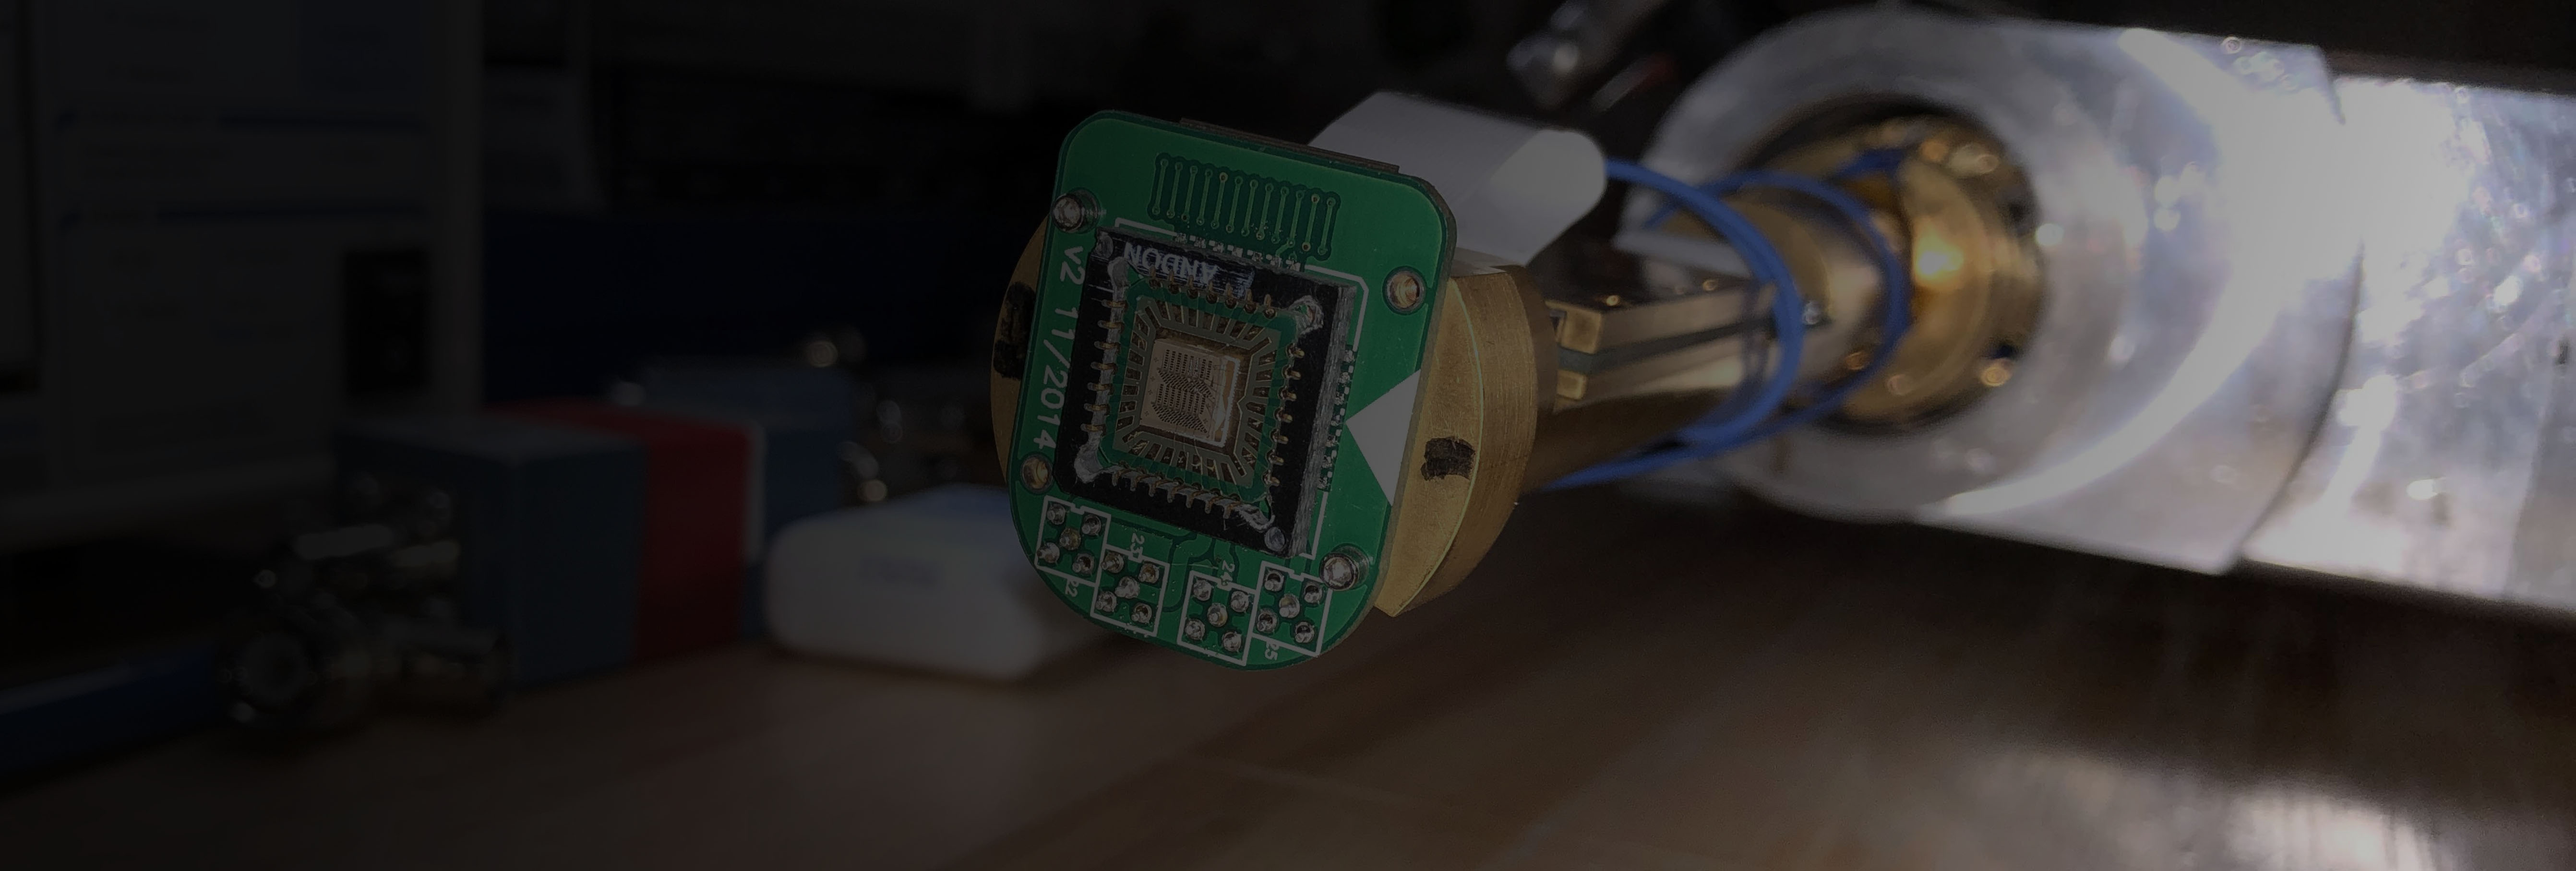
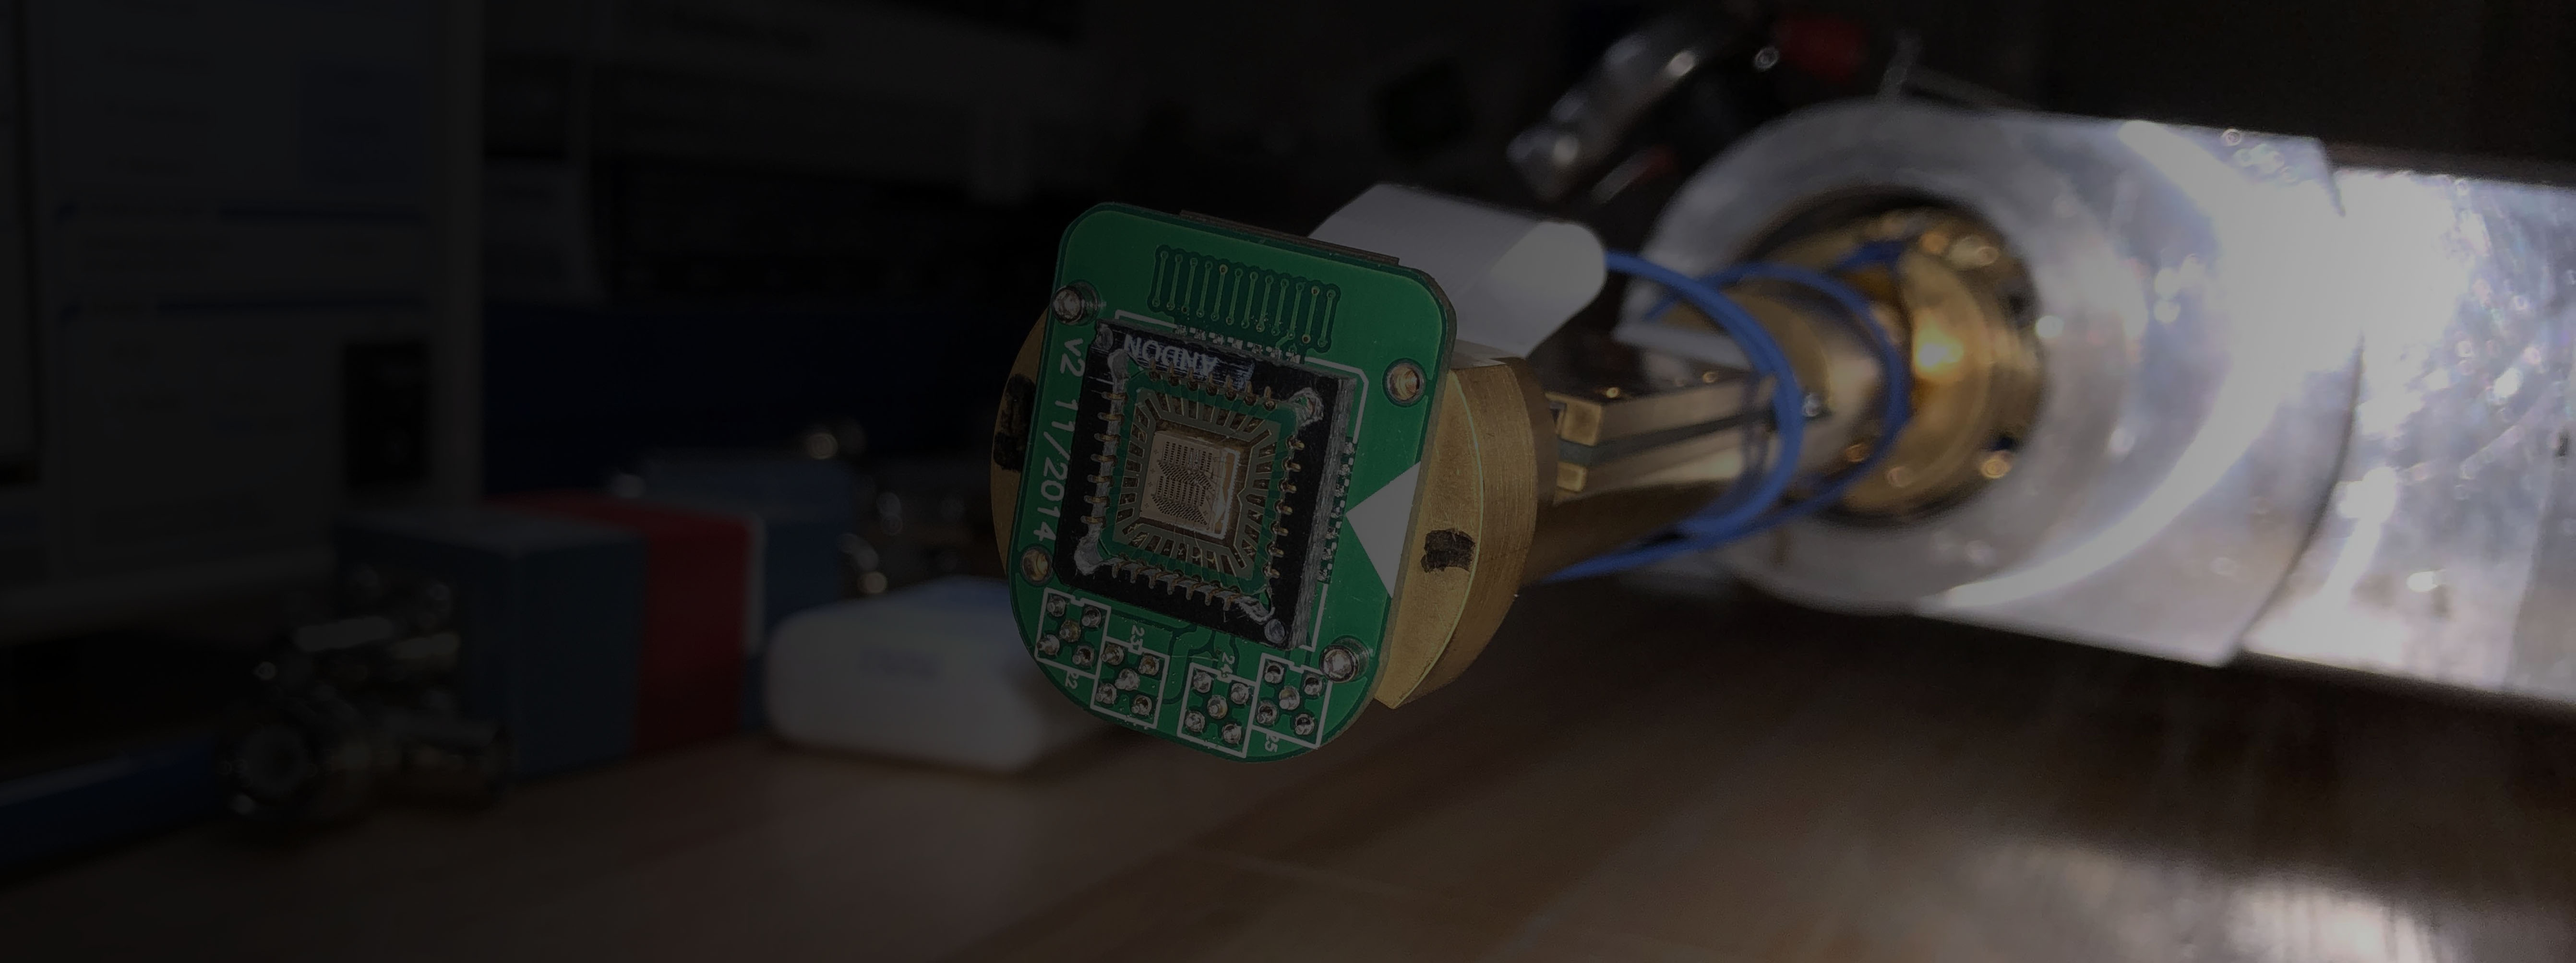
revert to non parallax

diff --git a/index.html b/index.html
@@ -5,6 +5,7 @@
 <title>Yun-Yi Pai</title>
 <link rel="shortcut icon" type="image/x-icon" href="images/favicon.ico" />
 <link href="main.css" rel="stylesheet" type="text/css">
+
 </head>
 
 	
@@ -16,105 +17,104 @@
   <a href="lab.html">Lab Experience</a>
 </div>
 
-<div class = "container_parallax">
 	
-    <div class = "parallax"></div>
-	<h1 id="title-text">Yun-Yi Pai</h1>
-    <h2 id="title-text-alt">Mesoscopic Physics, Superconductivity, Heterostructures, Complex Oxides </h2>
-
+<div>
+   <img src="images/Top.jpg" alt="" width="" height="" id="banner"/>
+   <h1 id="title-text">Yun-Yi Pai</h1>
+   <h2 id="title-text-alt">Mesoscopic Physics, Superconductivity, Heterostructures, Complex Oxides </h2>
 </div>
+	
 
-  <article class="list_section">
-    <h2 class="regular-h2">About</h2>
-    <p class="regular-p">I am a Ph.D. candidate working with Jeremy Levy at University of Pittsburgh. I majorly work on mesoscopic devices (quantum dot, electron waveguides), superconducting nanowires at LaAlO3/SrTiO3. I first-authored 2 reviews for this field (<a href="https://scholar.google.com/citations?user=J5DidfYAAAAJ" target="new">Google Scholar</a>).</p>
-  </article>
-  
-  <article class="list_section">
-    <h2 class="regular-h2">Selected Works</h2>
-  </article>
-  
-  <article class="list_section">
+<article class="list_section">
+  <h2 class="regular-h2">About</h2>
+  <p class="regular-p">I am a Ph.D. candidate working with Jeremy Levy at University of Pittsburgh. I majorly work on mesoscopic devices (quantum dot, electron waveguides), superconducting nanowires at LaAlO3/SrTiO3. I first-authored 2 reviews for this field (<a href="https://scholar.google.com/citations?user=J5DidfYAAAAJ" target="new">Google Scholar</a>).</p>
+</article>
+	
+<article class="list_section">
+  <h2 class="regular-h2">Selected Works</h2>
+</article>
+
+<article class="list_section">
     <section class="sec_img_con"><img src="images/work_review.png" alt=""/></section>
     <section class="sec_reg">
       <h2 class="work-h2">Physics of SrTiO3-based heterostructures and nanostructures: a review</h2>
       <p class="regular-p">This review provides a summary of the rich physics expressed within SrTiO3-based heterostructures and nanostructures. The intended audience is researchers who are working in the field of oxides, but also those with different backgrounds (eg, semiconductor nanostructures). After reviewing the relevant properties of SrTiO3 itself, we will then discuss the basics of SrTiO3-based heterostructures, how they can be grown, and how devices are typically fabricated. Next, we will cover the physics of these heterostructures, including their phase diagram and coupling between the various degrees of freedom. Finally, we will review the rich landscape of quantum transport phenomena, as well as the devices that elicit them. </p>
       
       <p class="regular-p"> <strong>Yun-Yi Pai,</strong>, Anthony Tylan-Tyler, Patrick Irvin, Jeremy Levy, <a href="https://iopscience.iop.org/article/10.1088/1361-6633/aa892d" target="new">Reports on Progress in Physics <strong>81</strong> (3), 036503 (2018)</a>.</p>
-      </section>
-    
-    </article>
-  <br>
-  
-  
-  <article class="list_section">
-    <section class="sec_img_con"><img src="images/work_1D.png" alt=""/></section>
-    <section class="sec_reg">
-      <h2 class="work-h2">One-Dimensional Nature of Superconductivity at the LaAlO3/SrTiO3 Interface</h2>
-      <p class="regular-p">We examine superconductivity in LaAlO3/SrTiO3 channels with widths that transition from the 1D to the 2D regime. The superconducting critical current is independent of the channel width and increases approximately linearly with the number of parallel channels. Signatures of electron pairing outside of the superconducting regime are also found to be independent of the channel width. Collectively, these results indicate that superconductivity exists at the boundary of these channels and is absent within the interior region of the channels. The intrinsic 1D nature of superconductivity at the LaAlO3/SrTiO3 interface imposes strong physical constraints on possible electron pairing mechanisms. </p>
-      
-  <p class="regular-p"><strong>Yun-Yi Pai,</strong>, Hyungwoo Lee, Jung-Woo Lee, Anil Annadi, Guanglei Cheng, Shicheng Lu, Michelle Tomczyk, Mengchen Huang, Chang-Beom Eom, Patrick Irvin, Jeremy Levy, <a href="https://journals.aps.org/prl/abstract/10.1103/PhysRevLett.120.147001" target="new">Physical review letters <strong>120</strong> (14), 147001 (2018)</a>.<br>
-    </p></section>
-  </article>
-  
-  <article class="list_section">
-    <section class="sec_img_con"><img src="images/work_zigzag.png" alt=""/></section>
-    <section class="sec_reg">
-      <h2 class="work-h2">Superconductivity in 1D Zigzag Nanowires</h2>
-      <p class="regular-p">We investigate the effects of the geometrical shapes of the 1D nanowires created at LaAlO3/SrTiO3 in order to study the origin of superconductivity of SrTiO3, which has puzzled researchers for more than 50 years. It was recently suggested that electron pairing in SrTiO3 may be related to ferroelastic domain walls. By using conductive-AFM lithography to create 1D superconducting nanowires at the LaAlO3/SrTiO3 interface, we can investigate the influence of nanowire shape, and in particular the effect of sharp turns in the nanowire, on superconducting behavior in the nanowires. We find a significant stabilization of the superconducting state in “zigzag” wires compared with straight control wires, both created at the same time and located only a few micrometers apart. We discuss possible origins for this behavior within the context of ferroelastic domain structure that surrounds the nanowires.</p>
-      
-      <p class="regular-p"> <strong>Yun-Yi Pai,</strong>, Megan Briggeman, Hyungwoo Lee, Jung-Woo Lee, Mengchen Huang, Jianan Li, Chang-Beom Eom, Patrick Irvin, Jeremy Levy, <a href="https://meetings.aps.org/Meeting/MAR19/Session/P09.14" target="new">Bulletin of the American Physical Society APS 2019 P09.00014</a>.</p>
     </section>
     
   </article>
-  <article class="list_section">
-    <h2 class="regular-h2">Conference Talks</h2>
-    <ul>
-      <li id="h.p__lAAaVbBJWYg"><strong>Yun-Yi Pai,</strong> Megan Briggeman, Hyungwoo Lee, Jung-Woo Lee, Mengchen Huang, Jianan Li, Chang-Beom Eom, Patrick Irvin, Jeremy Levy, &ldquo;<em>Superconductivity in 1D Zigzag Nanowires</em>&rdquo;, 2019 APS March Meeting, <a href="https://meetings.aps.org/Meeting/MAR19/Session/P09.14" target="_blank">P09.14</a>.</li>
-      <li id="h.p_UpBdbLLSJW8x"><strong>Yun-Yi Pai</strong>, Hyungwoo Lee, Jung-Woo Lee, Anil Annadi, Guanglei Cheng, Shicheng Lu, Michelle Tomczyk, Mengchen Huang, Chang-Beom Eom, Patrick Irvin, Jeremy Levy, &ldquo;<em>One-Dimensional Nature of Pairing and Superconductivity at the LaAlO3/SrTiO3</em>&rdquo;, 2018 Materials and Mechanisms of Superconductivity (M2S-2018), Beijing, Th‐S48-05.</li>
-      <li id="h.p_G3_2ZvEsJW8z"><strong>Yun-Yi Pai</strong>, Hyungwoo Lee, Jung-Woo Lee, Anil Annadi, Guanglei Cheng, Shicheng Lu, Michelle Tomczyk, Mengchen Huang, Chang-Beom Eom, Patrick Irvin, Jeremy Levy, &ldquo;One-Dimensional Nature of Pairing and Superconductivity at the LaAlO3/SrTiO3&rdquo;, 2018 APS March Meeting, <a href="https://meetings.aps.org/Meeting/MAR18/Session/B30.12" target="_blank">B30.12</a>.</li>
-      <li id="h.p_UbA_A1sgJW80"><strong>Yun-Yi Pai</strong>, Anthony Tylan-Tyler, Patrick Irvin, Jeremy Levy, &ldquo;<em>LaAlO3/SrTiO3: a tale of two magnetisms</em>&rdquo;, 2017 APS March Meeting, <a href="http://meetings.aps.org/Meeting/MAR17/Session/A37a.12" target="_blank">A37a.12</a>.</li>
-      <li id="h.p_Z4ez-m1WJW81"><strong>Yun-Yi Pai</strong>, Dong-Wook Park, Mengchen Huang, Anil Annadi, Hyungwoo Lee, Zhenqiang Ma, Chang-Beom Eom, Patrick Irvin, Jeremy Levy, &ldquo;<em>Vertical gating of sketched nanodevices</em>&rdquo;, 2016 APS March Meeting, <a href="http://meetings.aps.org/Meeting/MAR16/Session/S24.3" target="_blank">S24.3</a>.</li>
-      <li id="h.p_1gaG4o8EJW82"><strong>Yun-Yi Pai</strong>, Mengchen Huang, Hyungwoo Lee, Chang-Beom Eom, Patrick Irvin, Jeremy Levy, &ldquo;<em>LaAlO3/SrTiO3 field-effect nanodevices using in-situ-grown Au top gates</em>&rdquo;, 2015 APS March Meeting, <a href="http://meetings.aps.org/Meeting/MAR15/Session/G13.4" target="_blank">G13.4</a>. </li>
-    </ul>
-    
-    
-    
-  </article>
-  <article class="list_section">
-    <h2 class="regular-h2">Honor</h2>
-    <ul>
-      <li id="h.p_hQgOu7UiSl1U">Kenneth P. Dietrich School of Arts & Sciences Fellowship. 2019 - 2019</li>
-      <li id="h.p_42edRi99Sl1U">Andrew Mellon Predoctoral Fellowship, 2018 - 2019</li>
-      <li id="h.p_E7U-K1X3Sl1V">Kenneth P. Dietrich School of Arts & Sciences Fellowship. 2014 - 2015</li>
-      </ul>
-  </article>
-  
-  
-  
-  <article class="list_section">
-    <h2 class="regular-h2">Teaching</h2>
-    <p id="h.p_W5dhbYDzSl1S">Teaching Assistant, University of Pittsburgh, Pittsburgh, PA</p>
-    <ul>
-      <li id="h.p_hQgOu7UiSlff1U">PHYS 0212 Introduction to Laboratory Physics,  Jan. 2019 - Apr. 2019</li>
-      <li id="h.p_42edRi99eeSl1U">PHYS 1426 Modern Physics Laboratory,  Jan. 2018 - Apr. 2018</li>
-      <li id="h.p_E7U-Kht1X3Sl1V">PHYS 0175 Basic Physics for Science and Engineering II,  May 2015 - Jun. 2015 (My website: <a href="http://www.google.com/url?q=http%3A%2F%2Fwww.pitt.edu%2F~yup7%2F&sa=D&sntz=1&usg=AFQjCNE400lRF6_J6OEqelMfM-Gunwd5gg" target="_blank">http://www.pitt.edu/~yup7/</a>)</li>
-      </ul>
-    <p id="h.p_BrnkpOYvTE6k">Lab Assistant Cornell University, Ithaca, NY </p>
-    <ul>
-      <li id="h.p_2-pow0BMSl1X">AEP 2640 Computer Instrumentation Design, Aug. 2013 - Dec. 2013 </li>
-      </ul>
-  </article>
-  
-  
-  <article class="list_section">
-    <h2 class="regular-h2">Outreach</h2>
-    <ul>
-      <li id="h.p_MjNxdlbcSbL1">Lab tour For students from Taylor Allderdice High School. Sep. 29, 2015, Sep. 27, 2016, Sep. 26, 2017</li>
-      <li id="h.p_0zNvZu5QSyMr"><em><strong>Investing Now! </strong></em>Science demo for students from under-represented groups. Apr. 1, 2017</li>
-      
-    </ul>
-  </article>
+<br>
 
+	
+<article class="list_section">
+    <section class="sec_img_con"><img src="images/work_1D.png" alt=""/></section>
+    <section class="sec_reg">
+    <h2 class="work-h2">One-Dimensional Nature of Superconductivity at the LaAlO3/SrTiO3 Interface</h2>
+	<p class="regular-p">We examine superconductivity in LaAlO3/SrTiO3 channels with widths that transition from the 1D to the 2D regime. The superconducting critical current is independent of the channel width and increases approximately linearly with the number of parallel channels. Signatures of electron pairing outside of the superconducting regime are also found to be independent of the channel width. Collectively, these results indicate that superconductivity exists at the boundary of these channels and is absent within the interior region of the channels. The intrinsic 1D nature of superconductivity at the LaAlO3/SrTiO3 interface imposes strong physical constraints on possible electron pairing mechanisms. </p>
+
+<p class="regular-p"><strong>Yun-Yi Pai,</strong>, Hyungwoo Lee, Jung-Woo Lee, Anil Annadi, Guanglei Cheng, Shicheng Lu, Michelle Tomczyk, Mengchen Huang, Chang-Beom Eom, Patrick Irvin, Jeremy Levy, <a href="https://journals.aps.org/prl/abstract/10.1103/PhysRevLett.120.147001" target="new">Physical review letters <strong>120</strong> (14), 147001 (2018)</a>.<br>
+  </p></section>
+</article>
+	
+<article class="list_section">
+    <section class="sec_img_con"><img src="images/work_zigzag.png" alt=""/></section>
+    <section class="sec_reg">
+    <h2 class="work-h2">Superconductivity in 1D Zigzag Nanowires</h2>
+	<p class="regular-p">We investigate the effects of the geometrical shapes of the 1D nanowires created at LaAlO3/SrTiO3 in order to study the origin of superconductivity of SrTiO3, which has puzzled researchers for more than 50 years. It was recently suggested that electron pairing in SrTiO3 may be related to ferroelastic domain walls. By using conductive-AFM lithography to create 1D superconducting nanowires at the LaAlO3/SrTiO3 interface, we can investigate the influence of nanowire shape, and in particular the effect of sharp turns in the nanowire, on superconducting behavior in the nanowires. We find a significant stabilization of the superconducting state in “zigzag” wires compared with straight control wires, both created at the same time and located only a few micrometers apart. We discuss possible origins for this behavior within the context of ferroelastic domain structure that surrounds the nanowires.</p>
+
+	<p class="regular-p"> <strong>Yun-Yi Pai,</strong>, Megan Briggeman, Hyungwoo Lee, Jung-Woo Lee, Mengchen Huang, Jianan Li, Chang-Beom Eom, Patrick Irvin, Jeremy Levy, <a href="https://meetings.aps.org/Meeting/MAR19/Session/P09.14" target="new">Bulletin of the American Physical Society APS 2019 P09.00014</a>.</p>
+  </section>
+	
+</article>
+<article class="list_section">
+  <h2 class="regular-h2">Conference Talks</h2>
+  <ul>
+    <li id="h.p__lAAaVbBJWYg"><strong>Yun-Yi Pai,</strong> Megan Briggeman, Hyungwoo Lee, Jung-Woo Lee, Mengchen Huang, Jianan Li, Chang-Beom Eom, Patrick Irvin, Jeremy Levy, &ldquo;<em>Superconductivity in 1D Zigzag Nanowires</em>&rdquo;, 2019 APS March Meeting, <a href="https://meetings.aps.org/Meeting/MAR19/Session/P09.14" target="_blank">P09.14</a>.</li>
+    <li id="h.p_UpBdbLLSJW8x"><strong>Yun-Yi Pai</strong>, Hyungwoo Lee, Jung-Woo Lee, Anil Annadi, Guanglei Cheng, Shicheng Lu, Michelle Tomczyk, Mengchen Huang, Chang-Beom Eom, Patrick Irvin, Jeremy Levy, &ldquo;<em>One-Dimensional Nature of Pairing and Superconductivity at the LaAlO3/SrTiO3</em>&rdquo;, 2018 Materials and Mechanisms of Superconductivity (M2S-2018), Beijing, Th‐S48-05.</li>
+    <li id="h.p_G3_2ZvEsJW8z"><strong>Yun-Yi Pai</strong>, Hyungwoo Lee, Jung-Woo Lee, Anil Annadi, Guanglei Cheng, Shicheng Lu, Michelle Tomczyk, Mengchen Huang, Chang-Beom Eom, Patrick Irvin, Jeremy Levy, &ldquo;One-Dimensional Nature of Pairing and Superconductivity at the LaAlO3/SrTiO3&rdquo;, 2018 APS March Meeting, <a href="https://meetings.aps.org/Meeting/MAR18/Session/B30.12" target="_blank">B30.12</a>.</li>
+    <li id="h.p_UbA_A1sgJW80"><strong>Yun-Yi Pai</strong>, Anthony Tylan-Tyler, Patrick Irvin, Jeremy Levy, &ldquo;<em>LaAlO3/SrTiO3: a tale of two magnetisms</em>&rdquo;, 2017 APS March Meeting, <a href="http://meetings.aps.org/Meeting/MAR17/Session/A37a.12" target="_blank">A37a.12</a>.</li>
+    <li id="h.p_Z4ez-m1WJW81"><strong>Yun-Yi Pai</strong>, Dong-Wook Park, Mengchen Huang, Anil Annadi, Hyungwoo Lee, Zhenqiang Ma, Chang-Beom Eom, Patrick Irvin, Jeremy Levy, &ldquo;<em>Vertical gating of sketched nanodevices</em>&rdquo;, 2016 APS March Meeting, <a href="http://meetings.aps.org/Meeting/MAR16/Session/S24.3" target="_blank">S24.3</a>.</li>
+    <li id="h.p_1gaG4o8EJW82"><strong>Yun-Yi Pai</strong>, Mengchen Huang, Hyungwoo Lee, Chang-Beom Eom, Patrick Irvin, Jeremy Levy, &ldquo;<em>LaAlO3/SrTiO3 field-effect nanodevices using in-situ-grown Au top gates</em>&rdquo;, 2015 APS March Meeting, <a href="http://meetings.aps.org/Meeting/MAR15/Session/G13.4" target="_blank">G13.4</a>. </li>
+  </ul>
+	
+	
+	
+</article>
+<article class="list_section">
+  <h2 class="regular-h2">Honor</h2>
+  <ul>
+    <li id="h.p_hQgOu7UiSl1U">Kenneth P. Dietrich School of Arts & Sciences Fellowship. 2019 - 2019</li>
+    <li id="h.p_42edRi99Sl1U">Andrew Mellon Predoctoral Fellowship, 2018 - 2019</li>
+    <li id="h.p_E7U-K1X3Sl1V">Kenneth P. Dietrich School of Arts & Sciences Fellowship. 2014 - 2015</li>
+    </ul>
+</article>
+	
+	
+
+<article class="list_section">
+  <h2 class="regular-h2">Teaching</h2>
+  <p id="h.p_W5dhbYDzSl1S">Teaching Assistant, University of Pittsburgh, Pittsburgh, PA</p>
+  <ul>
+    <li id="h.p_hQgOu7UiSlff1U">PHYS 0212 Introduction to Laboratory Physics,  Jan. 2019 - Apr. 2019</li>
+    <li id="h.p_42edRi99eeSl1U">PHYS 1426 Modern Physics Laboratory,  Jan. 2018 - Apr. 2018</li>
+    <li id="h.p_E7U-Kht1X3Sl1V">PHYS 0175 Basic Physics for Science and Engineering II,  May 2015 - Jun. 2015 (My website: <a href="http://www.google.com/url?q=http%3A%2F%2Fwww.pitt.edu%2F~yup7%2F&sa=D&sntz=1&usg=AFQjCNE400lRF6_J6OEqelMfM-Gunwd5gg" target="_blank">http://www.pitt.edu/~yup7/</a>)</li>
+    </ul>
+  <p id="h.p_BrnkpOYvTE6k">Lab Assistant Cornell University, Ithaca, NY </p>
+  <ul>
+    <li id="h.p_2-pow0BMSl1X">AEP 2640 Computer Instrumentation Design, Aug. 2013 - Dec. 2013 </li>
+    </ul>
+</article>
+
+	
+<article class="list_section">
+  <h2 class="regular-h2">Outreach</h2>
+  <ul>
+    <li id="h.p_MjNxdlbcSbL1">Lab tour For students from Taylor Allderdice High School. Sep. 29, 2015, Sep. 27, 2016, Sep. 26, 2017</li>
+    <li id="h.p_0zNvZu5QSyMr"><em><strong>Investing Now! </strong></em>Science demo for students from under-represented groups. Apr. 1, 2017</li>
+    
+  </ul>
+</article>
 	<footer>
 	  <p> © 2019 Yun-Yi Pai</p>
 </footer>

diff --git a/main.css b/main.css
@@ -1,48 +1,25 @@
 @charset "UTF-8";
 
-/* Style the navbar */
-#navbar {
-    overflow: hidden;
-    background-color: #333;
-    margin: 0;
+
+
+
+
+
+
+
+
+
+
+
+
+#banner {
+	width: 100%;
+	position: relative;
+	height: auto;
+	max-height: none;
+	max-width: 100%;
+	margin: 0;
 }
-
-/* Navbar links */
-#navbar a {
-    float: left;
-    display: block;
-    color: #f2f2f2;
-    text-align: center;
-    padding: 14px;
-    text-decoration: none;
-    font-weight: 400;
-}
-
-
-.container_parallax{
-	margin: 0 0;
-	background: #f9f9f9;
-}
-
-.parallax{
-    background-image: url(images/Top.jpg);
-    background-size: cover;
-    background-repeat: no-repeat;
-    background-position: center;
-    background-attachment: fixed;
-    height: 400px;
-}
-
-.parallax-lab{
-    background-image: url(images/Top_probe.JPG);
-    background-size: cover;
-    background-repeat: no-repeat;
-    background-position: center;
-    background-attachment: fixed;
-    height: 400px;
-}
-
-
 #title-text {
 	position: absolute;
 	left: 100px;
@@ -67,6 +44,23 @@
 }
 
 
+/* Style the navbar */
+#navbar {
+  overflow: hidden;
+  background-color: #333;
+  margin: 0;
+}
+
+/* Navbar links */
+#navbar a {
+    float: left;
+    display: block;
+    color: #f2f2f2;
+    text-align: center;
+    padding: 14px;
+    text-decoration: none;
+    font-weight: 400;
+}
 
 .regular-h2 {
 	font-weight: 400;

diff --git a/lab.html b/lab.html
@@ -13,16 +13,11 @@
   <a href="index.html">Home</a>
   <a href="lab.html">Lab Experience</a>
 </div>
-
-	
-
-<div class = "container_parallax">
-    <div class = "parallax-lab"></div>
-	<h1 id="title-text">Lab Experience</h1>
-    <h2 id="title-text-alt">Low temperature transport, scanning probe microscopy, instrumentation, troubleshooting, database setup and management, data visualization</h2>
-
-</div>	
-
+<div>
+   <img src="images/Top_probe.JPG" alt="" width="" height="" id="banner"/>
+   <h1 id="title-text">Lab Experience</h1>
+   <h2 id="title-text-alt">Low temperature transport, scanning probe microscopy, instrumentation, troubleshooting, database setup and management, data visualization</h2>
+</div>
 <article class="list_section">
     <section class="sec_img_con"><img src="images/lab_cf.jpg" alt=""/></section>
     <section class="sec_reg">
